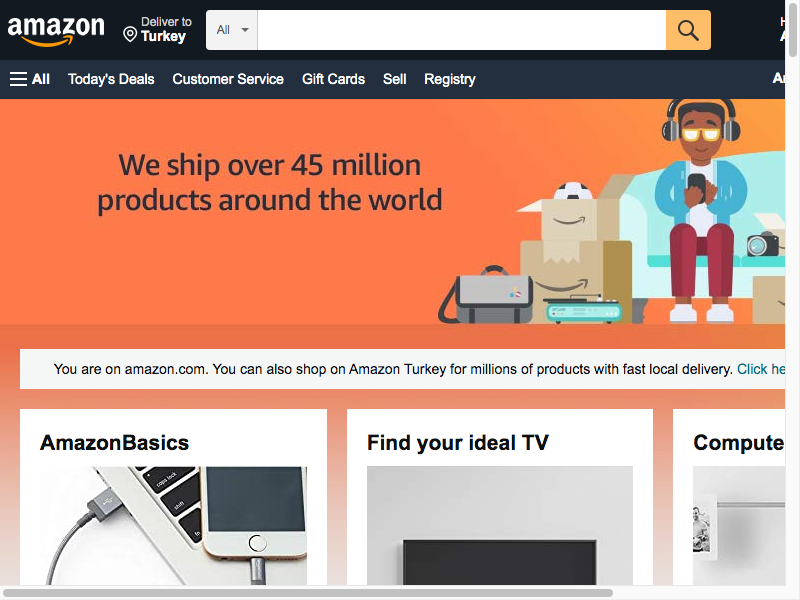
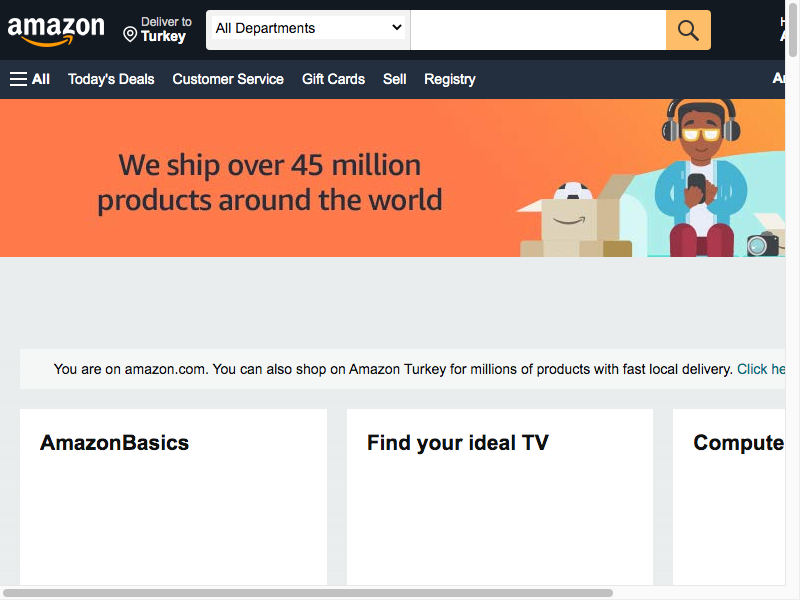
v

diff --git a/main.js b/main.js
@@ -36,7 +36,7 @@ Apify.main(async () => {
           headless: true,
           viewport: { width: 1200, height: 1200 },
           slowMo: 10,
-          args: [USER_AGENT],
+          args: [USER_AGENT,`--window-size=1200,1250`],
         })
       : await getBrowser();
     browser.on('targetcreated', async (target) => {
@@ -66,8 +66,9 @@ Apify.main(async () => {
         await startPage.bringToFront();
       } else {
         startPage = await browser.newPage();
+        await startPage.setJavaScriptEnabled(false);
         startPage.once('request', (request) => {
-          const headers =request.headers()
+          const headers = request.headers();
           debugger;
         });
         await startPage.goto('https://www.amazon.com', {
@@ -133,7 +134,7 @@ Apify.main(async () => {
         const detailPage = await (await browser.pages()).find(
           (p) => p.url() === url
         );
-
+        //await detailPage.setJavaScriptEnabled(false);
         const { description, title } = await detailPageScraper({
           page: detailPage,
         });
